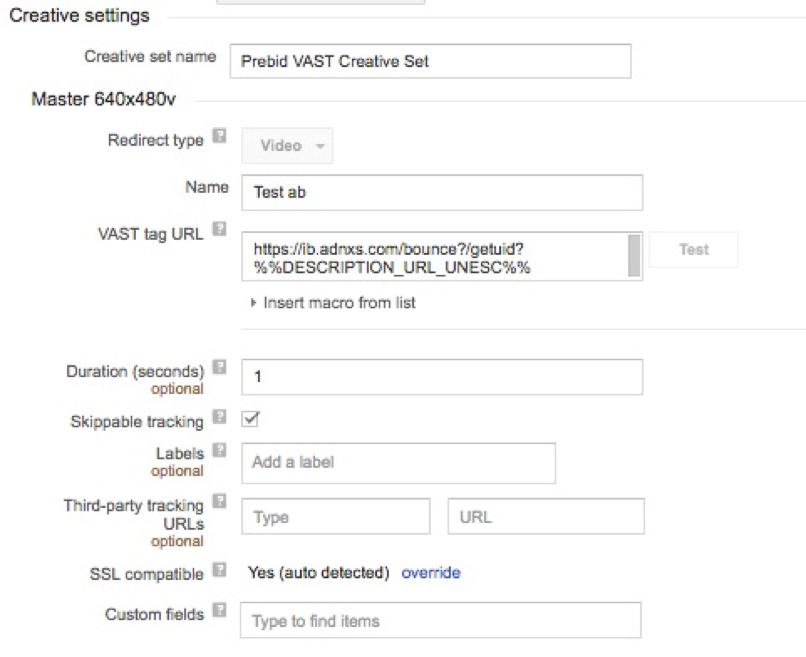
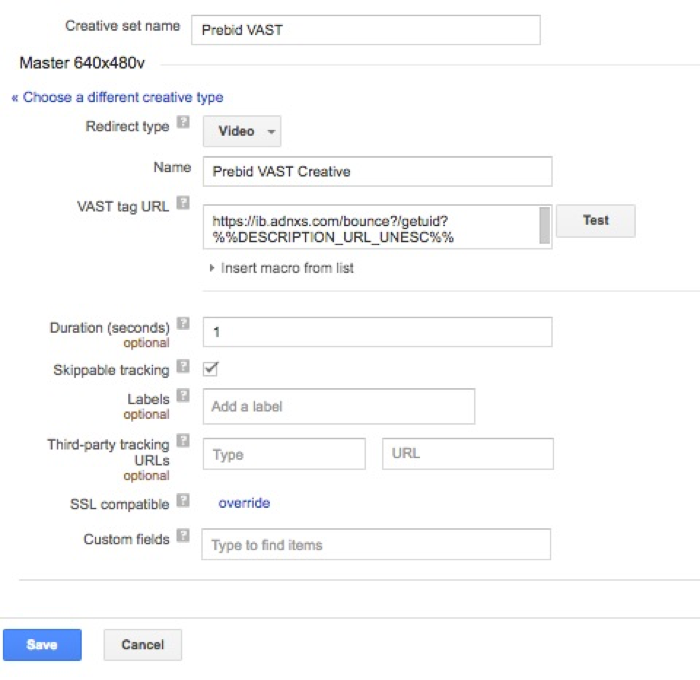
Add Line Item Setup to ad-ops page

diff --git a/adops/setting-up-prebid-video-in-dfp.md b/adops/setting-up-prebid-video-in-dfp.md
@@ -44,21 +44,36 @@ At a high level, the way Prebid.js serves a DFP video creative is:
     2. Creative macros are populated
 8. Video player plays VAST content
 
+
+## Line Item Setup
+
+1. In the DFP "New line item" dialogue, select the **"Video VAST"** radio button to set up your Prebid line item to serve video creatives.
+
+2. Add your video player size under **"Master"**.
+
+    ![DFP New Line Item]({{site.github.url}}/assets/images/ad-ops/dfp-creative-setup/dfp-creative-setup-03.png)
+
+3. Other line item settings and key/ value targeting are identical to [those recommended for Prebid display]({{site.github.url}}/adops/step-by-step.html#step-1-add-a-line-item).
+
 ## Creative Setup
 
-1. In DFP, set the type of creative set to **"Redirect"**:
+1. Enter the **"New creative set"** dialogue by selecting **new creative set** from the line item you created above. 
+
+2. Select **"Redirect"** as the **creative set type**:
 
    ![DFP New Creative Set]({{site.github.url}}/assets/images/ad-ops/dfp-creative-setup/dfp-creative-setup-01.png)
 
-2. Set the **VAST tag URL** to 
+3. Set the **VAST tag URL** to 
 
    ```
    https://ib.adnxs.com/bounce?/getuid?%%DESCRIPTION_URL_UNESC%%
    ```
 
+4. Set the **duration** to **1**
+
    ![Creative settings]({{site.github.url}}/assets/images/ad-ops/dfp-creative-setup/dfp-creative-setup-02.png)
 
-3. That's it as far as Prebid setup is concerned.  At this point you
+5. That's it as far as Prebid setup is concerned.  At this point you
    can add any other options you would normally use, e.g., labels or
    tracking URLs.
 
